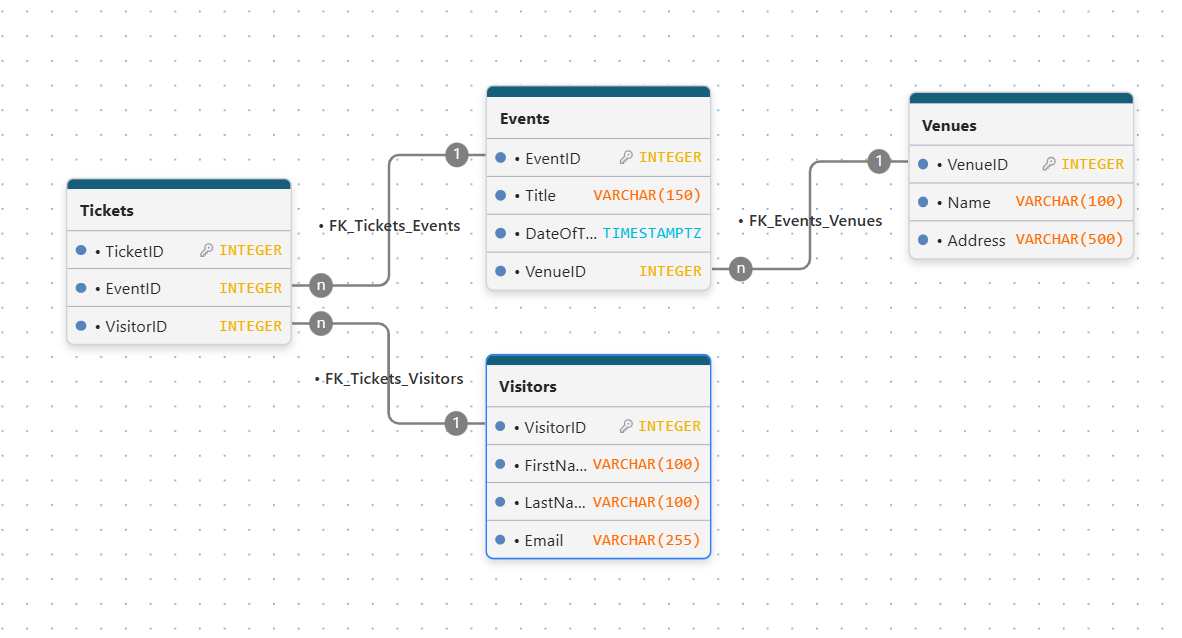
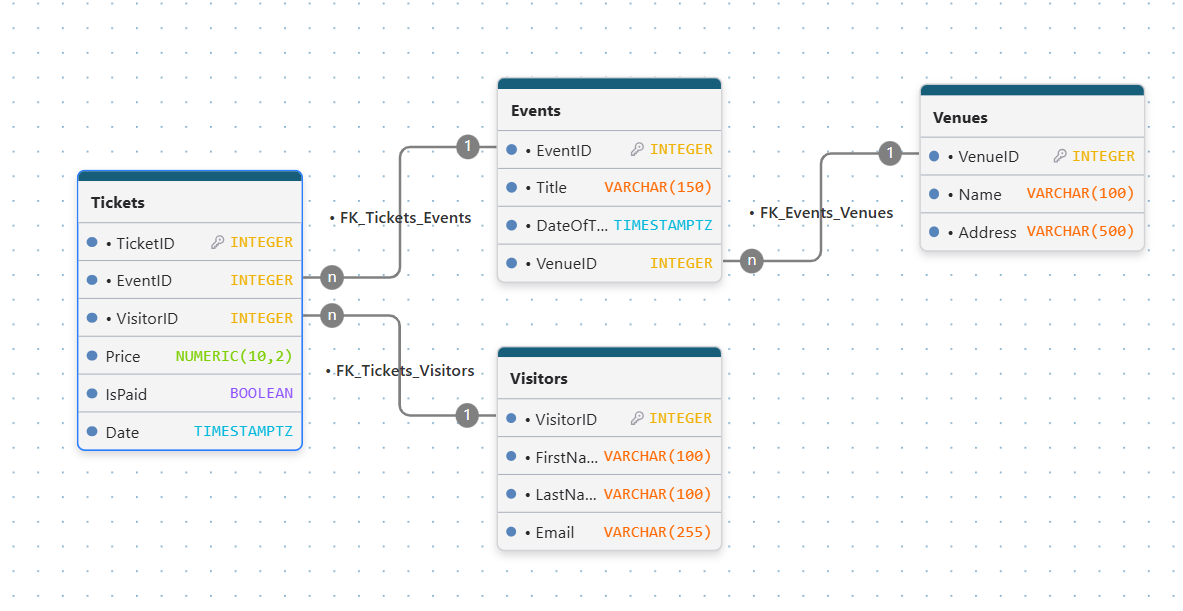
fix: исправления по замечаниям, добавлены Price, Date, IsPaid для таблица Tickets

Changed region(s): [[0.0305, 0.1244, 0.9746, 0.9329]]

diff --git a/HOMEWORK 2-Databases, Normalization/Homework-2.md b/HOMEWORK 2-Databases, Normalization/Homework-2.md
@@ -7,11 +7,11 @@
 
 Идентификация Сущностей и Атрибутов: 
 
-- Площадки (Venue): 
+- Площадки (Venues): 
 
 - Мероприятия (Events): 
 
-- Посетители (Customers): 
+- Посетители (Visitors): 
 
 - Купленный билет (Tickets): (Для отслеживания, купленных билетов)
 
@@ -32,7 +32,7 @@
 
 ○ Constraints: 
 
-PK\_Venues: PRIMARY KEY (AuthorID) 
+PK\_Venues: PRIMARY KEY (VenueID) 
 
 2. Table Name: Events 
 
@@ -50,11 +50,11 @@ PK\_Venues: PRIMARY KEY (AuthorID)
 
 ○ Constraints: 
 
-- PK\_Venue: PRIMARY KEY (VenueID) 
+- PK\_Events: PRIMARY KEY (EventID) 
 
 - CHK\_Date: CHECK (DateOfTheЕvent \>= CURRENT\_TIMESTAMP) 
 
-- FK\_Events\_Venues: FOREIGN KEY (EventID) REFERENCES 
+- FK\_Events\_Venues: FOREIGN KEY (VenueID) REFERENCES 
 
 Venues(VenueID) 
 
@@ -87,9 +87,15 @@ Venues(VenueID)
 
 - TicketID: INTEGER, PK, NOT NULL, UNIQUE 
 
-- EventID: INTEGER, FK (REFERENCES Books), NOT NULL 
+- EventID: INTEGER, FK (REFERENCES Events), NOT NULL 
 
-- VisitorID: INTEGER, FK (REFERENCES Readers), NOT NULL 
+- VisitorID: INTEGER, FK (REFERENCES Visitors), NOT NULL 
+
+- Price: NUMERIC(10,2), NOT NULL
+
+- IsPaid: BOOL, NOT NULL
+
+- Date: TIMESTAMPTZ, NOT NULL
 
 ○ Constraints: 
 
@@ -98,6 +104,8 @@ Venues(VenueID)
 - FK\_Tickets\_Events: FOREIGN KEY (EventID) REFERENCES Events(EventID) 
 
 - FK\_Tickets\_Visitors: FOREIGN KEY (VisitorID) REFERENCES Visitors(VisitorID) 
+
+- CHK\_Date: CHECK (Date \>= CURRENT\_TIMESTAMP) 
 
 Взаимосвязи: 
 
